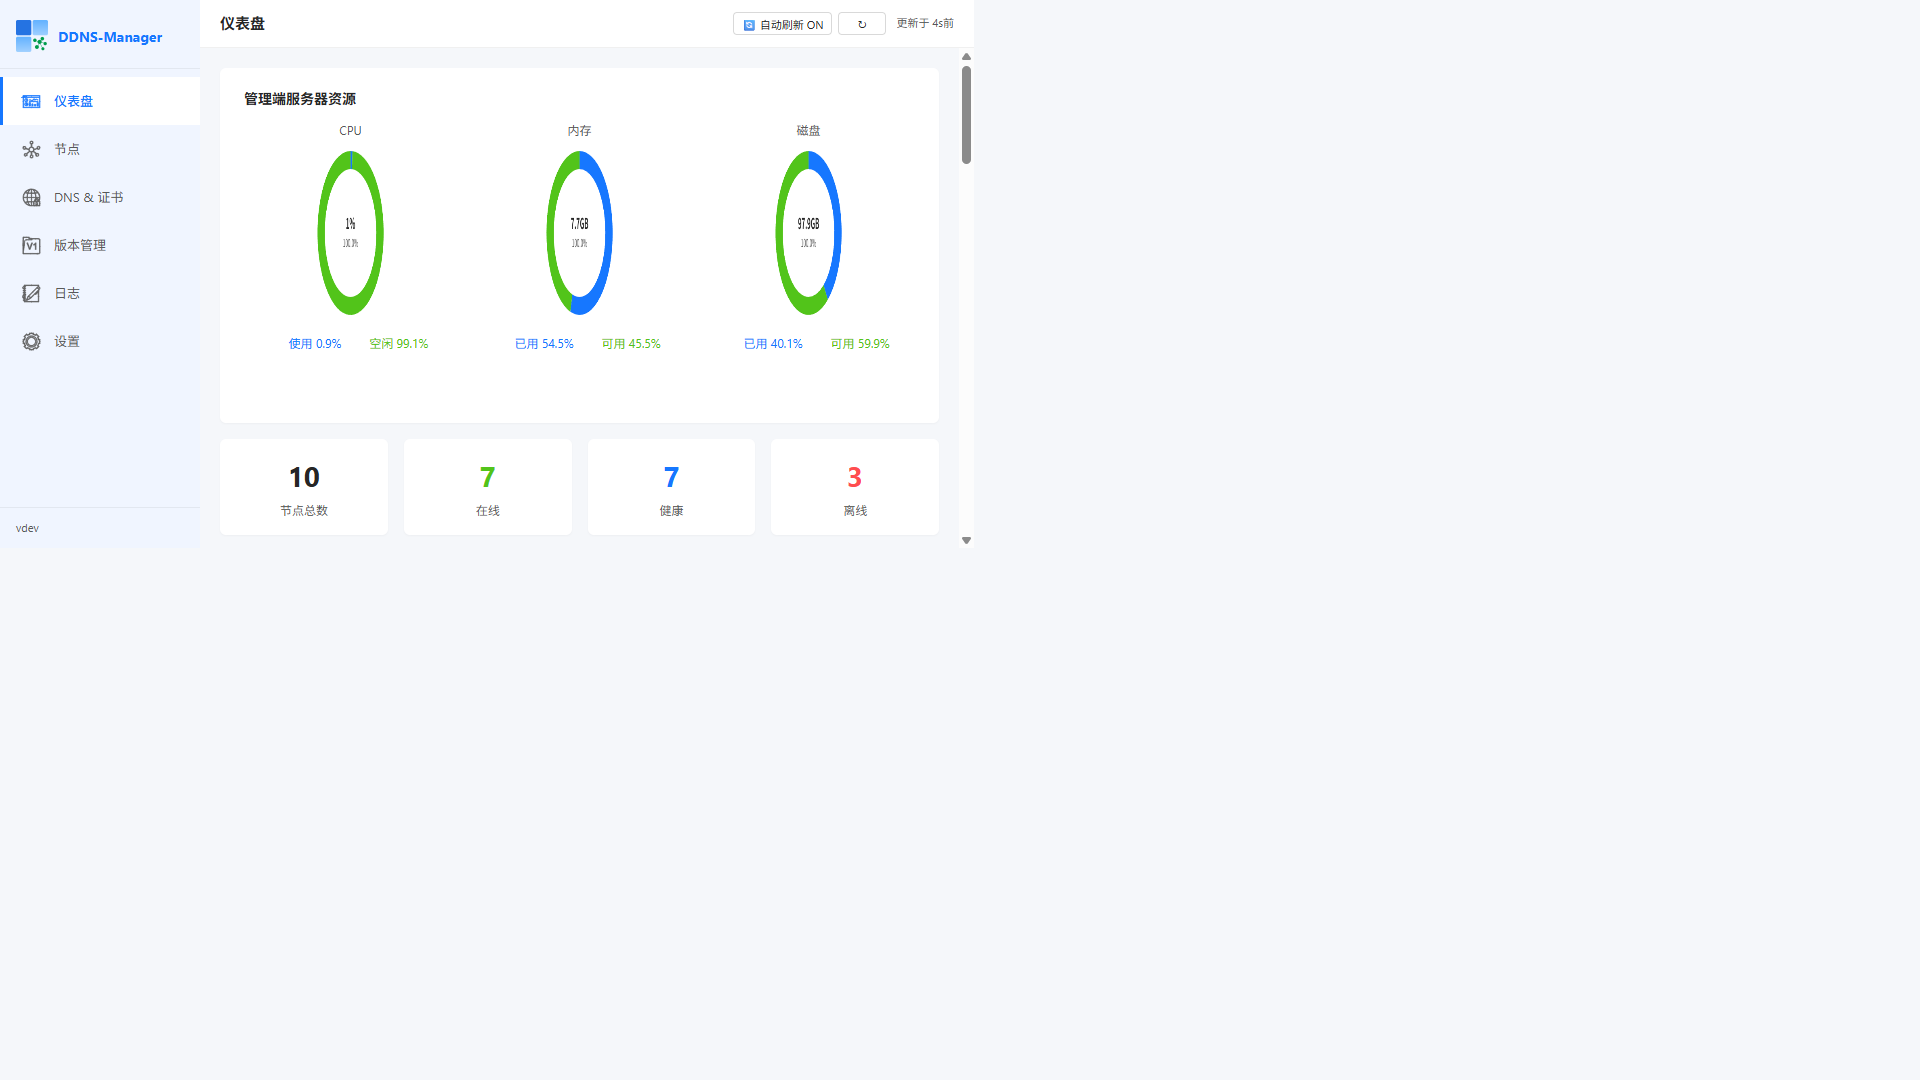
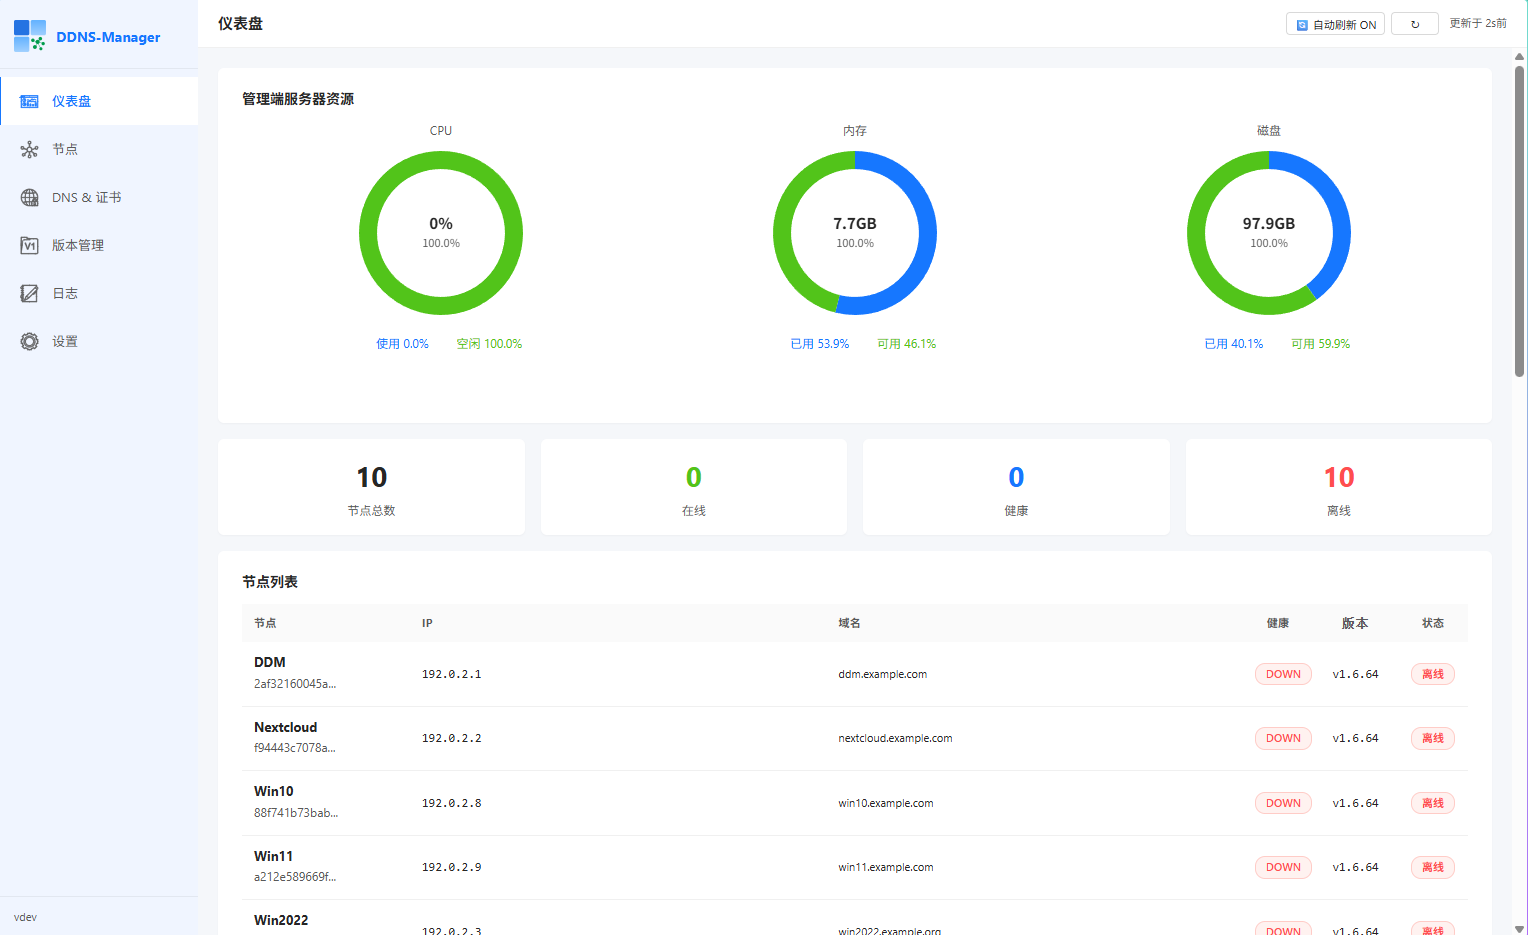
docs: 界面预览替换为实际运行截图（登录页+仪表盘，已脱敏）

diff --git a/README.md b/README.md
@@ -57,7 +57,8 @@ flowchart LR
 
 ## 📸 界面预览
 
-<img src="docs/screenshots/preview.png" alt="界面预览"/>
+<img src="docs/screenshots/login.png" alt="登录页"/>
+<img src="docs/screenshots/dashboard.png" alt="仪表盘"/>
 
 ## 快速开始
 
